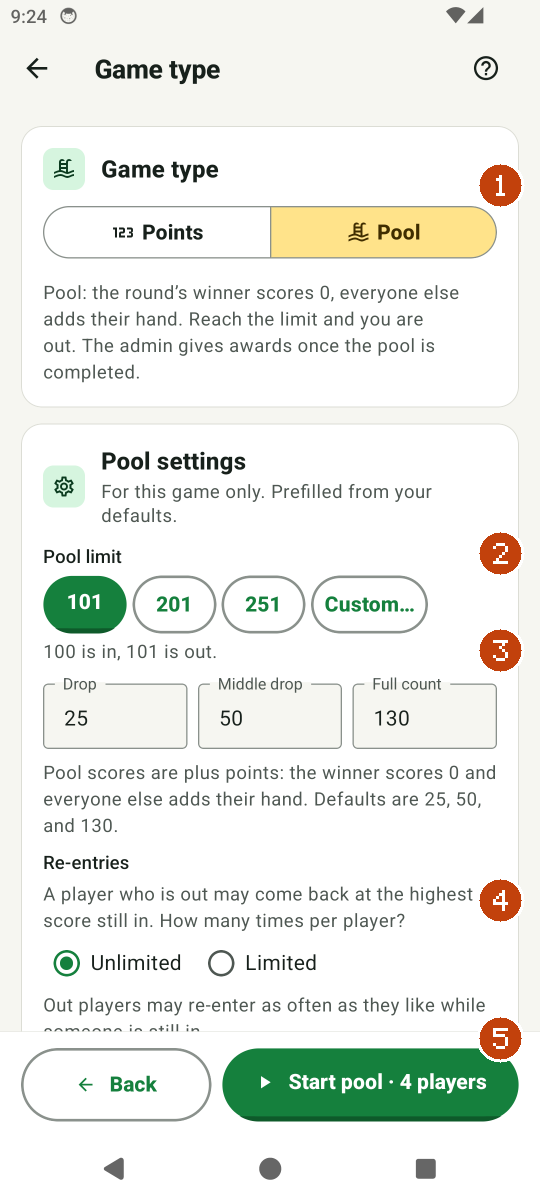
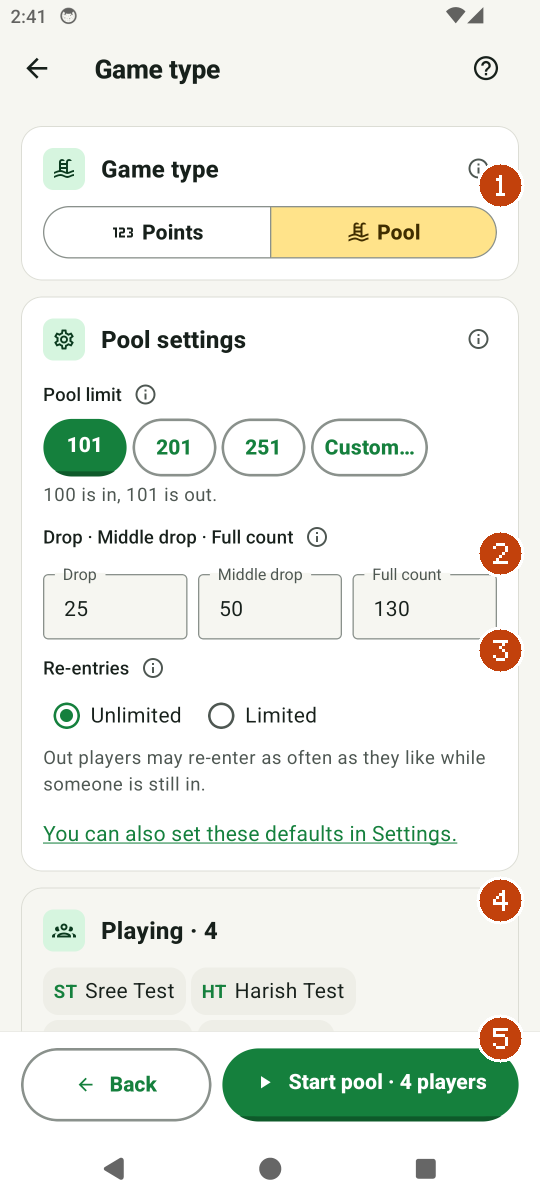
Help screenshots regenerated from the branch smoke run; badges follow the new layouts; Settings legend matches the frame

diff --git a/rummy-home3/constants/helpTopics.ts b/rummy-home3/constants/helpTopics.ts
@@ -814,9 +814,9 @@ const topics: Record<HelpTopicKey, Omit<HelpTopic, 'key'>> = {
     screenshot: {
       file: 'settings',
       legend: [
-        'The priority ladder: Game settings › Settings › Game defaults.',
+        '**New game starts as**: Points or Pool is picked for you on Game type.',
         'Points defaults, with the Multiplier.',
-        'Pool defaults: limit, values, Re-entries, Re-entry score, Late entry. **Hidden & deleted** is at the foot.',
+        'Pool defaults: limit, values, Re-entries, Re-entry score, Late entry. Below them the priority ladder (Game settings › Settings › Game defaults) and **Hidden & deleted**.',
       ],
     },
     sections: [
